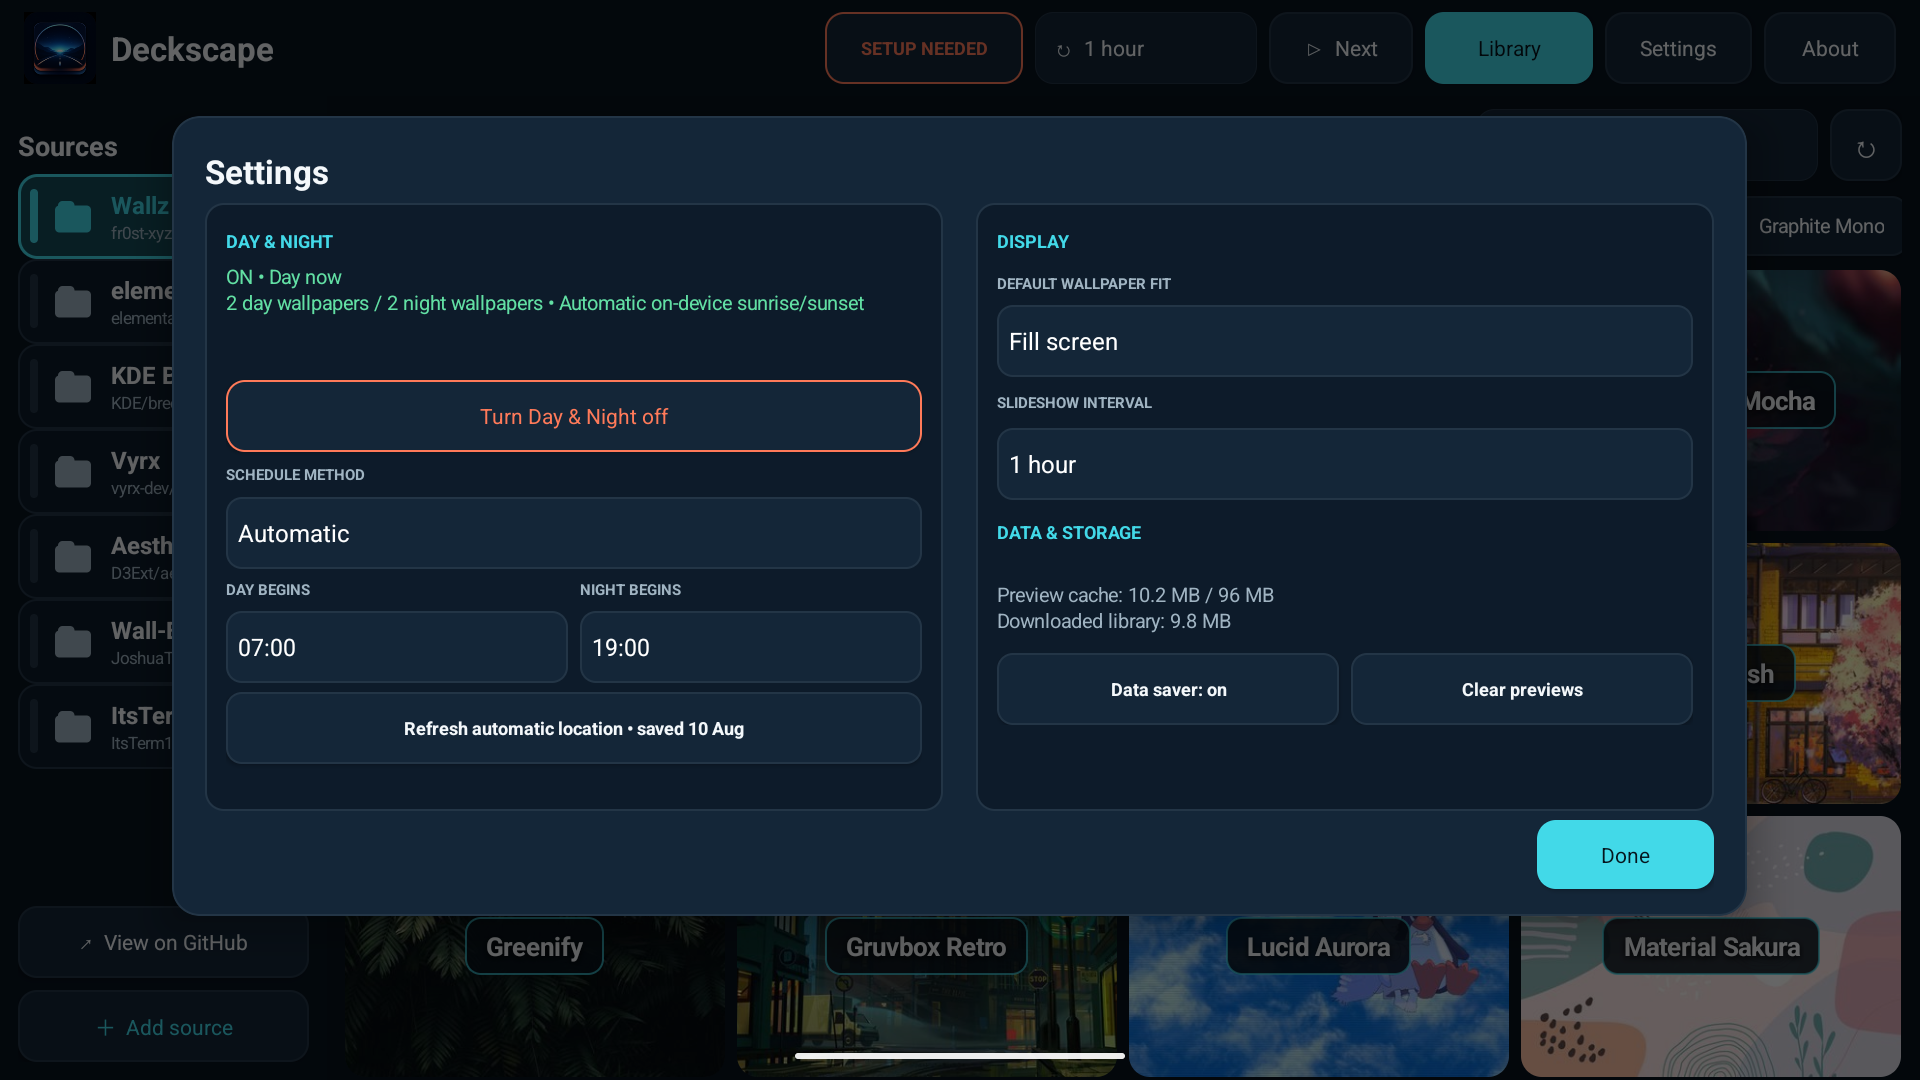
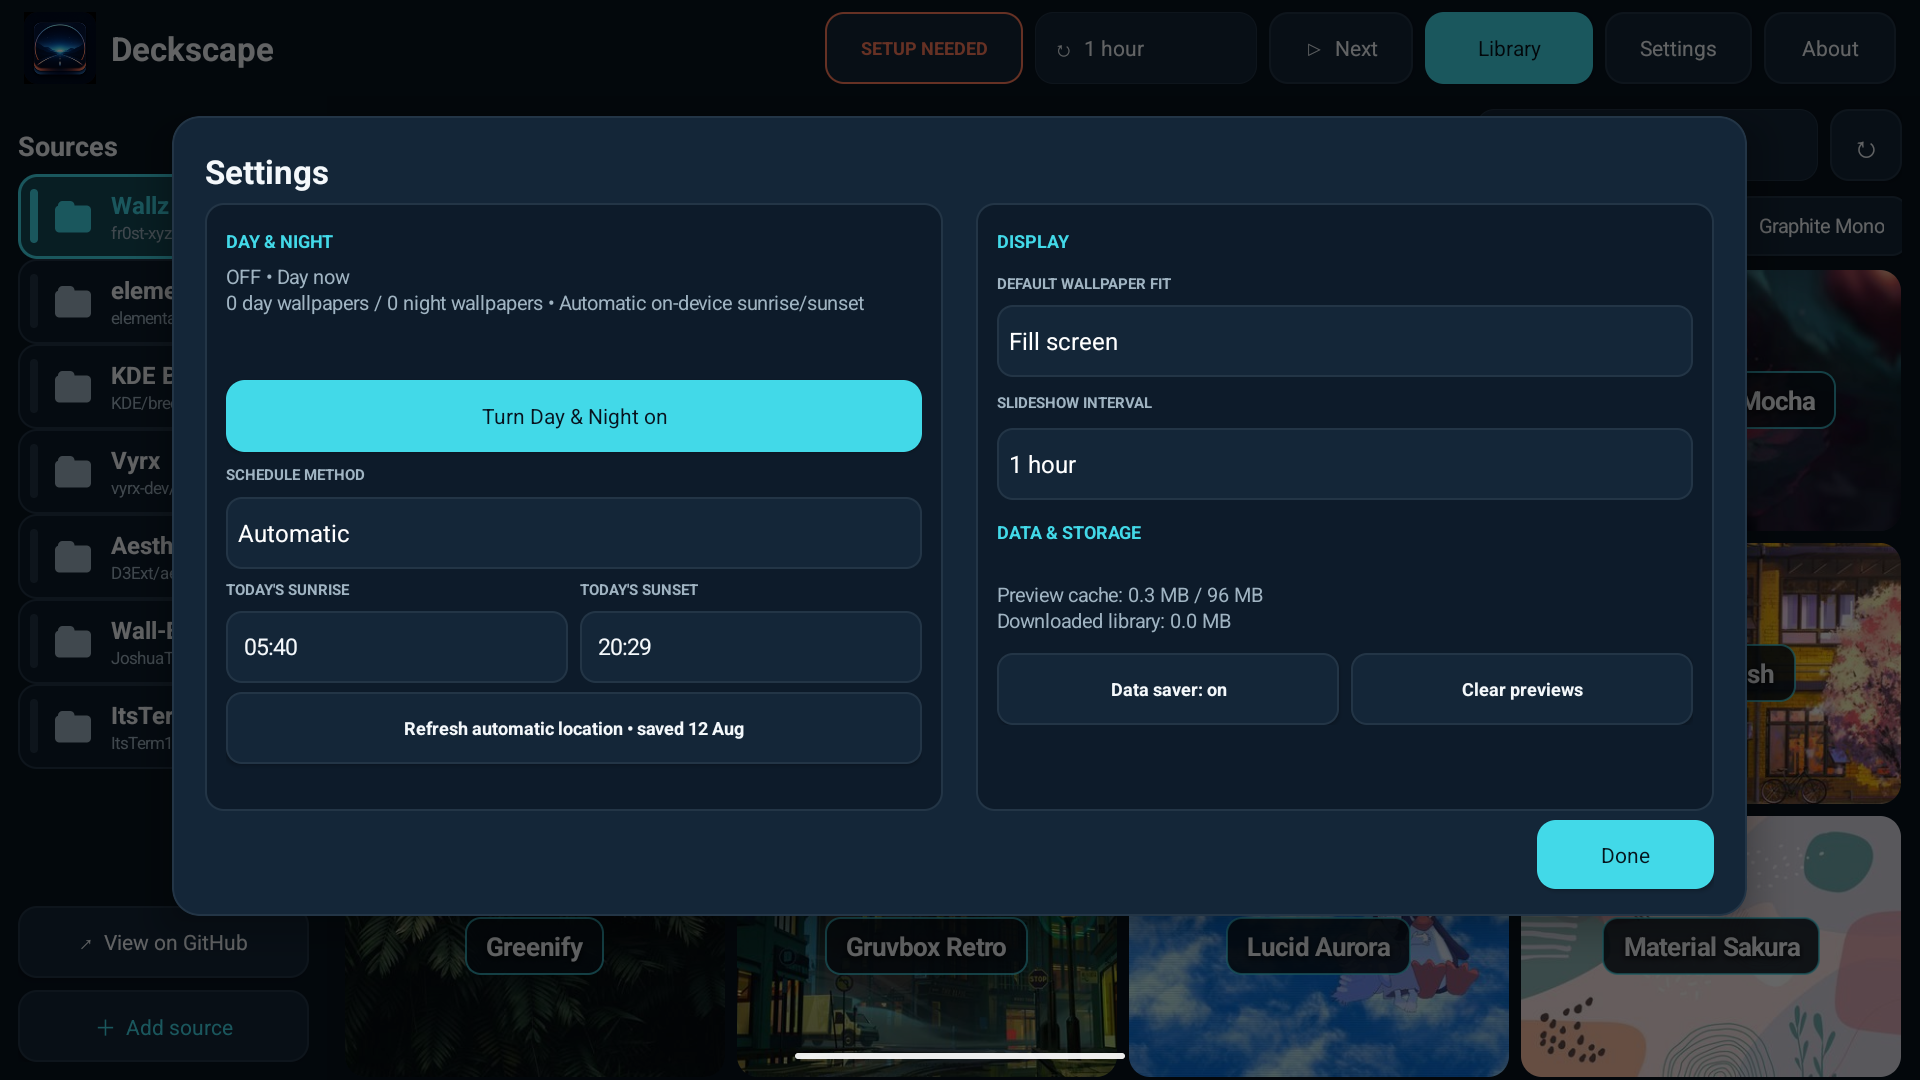
Clarify automatic schedule times

diff --git a/app/src/main/java/uk/darkbyte/deckscape/MainActivity.java b/app/src/main/java/uk/darkbyte/deckscape/MainActivity.java
@@ -107,6 +107,12 @@ public final class MainActivity extends Activity {
     private Button settingsDayNightToggle;
     private TextView settingsDayNightStatus;
     private Spinner settingsScheduleMode;
+    private TextView settingsDayTimeLabel;
+    private TextView settingsNightTimeLabel;
+    private Spinner settingsDayTimeSpinner;
+    private Spinner settingsNightTimeSpinner;
+    private TextView settingsDayCalculatedTime;
+    private TextView settingsNightCalculatedTime;
     private Button settingsLocationButton;
     private boolean pendingEnableDayNight;
     private AlertDialog infoDialog;
@@ -1231,8 +1237,8 @@ public final class MainActivity extends Activity {
 
         LinearLayout times = new LinearLayout(this);
         times.setOrientation(LinearLayout.HORIZONTAL);
-        LinearLayout dayTime = timeControl("DAY BEGINS", dayNightSettings.dayMinute());
-        LinearLayout nightTime = timeControl("NIGHT BEGINS", dayNightSettings.nightMinute());
+        LinearLayout dayTime = timeControl(true, dayNightSettings.dayMinute());
+        LinearLayout nightTime = timeControl(false, dayNightSettings.nightMinute());
         times.addView(dayTime, new LinearLayout.LayoutParams(0,
                 ViewGroup.LayoutParams.MATCH_PARENT, 1f));
         LinearLayout.LayoutParams nightParams = new LinearLayout.LayoutParams(0,
@@ -1355,6 +1361,12 @@ public final class MainActivity extends Activity {
             settingsDayNightToggle = null;
             settingsDayNightStatus = null;
             settingsScheduleMode = null;
+            settingsDayTimeLabel = null;
+            settingsNightTimeLabel = null;
+            settingsDayTimeSpinner = null;
+            settingsNightTimeSpinner = null;
+            settingsDayCalculatedTime = null;
+            settingsNightCalculatedTime = null;
             settingsLocationButton = null;
         });
         dialog.show();
@@ -1396,27 +1408,48 @@ public final class MainActivity extends Activity {
         return spinner;
     }
 
-    private LinearLayout timeControl(String label, int selectedMinute) {
+    private LinearLayout timeControl(boolean day, int selectedMinute) {
         LinearLayout control = new LinearLayout(this);
         control.setOrientation(LinearLayout.VERTICAL);
-        control.addView(settingsLabel(label), new LinearLayout.LayoutParams(
+        TextView label = settingsLabel(getString(day
+                ? R.string.manual_day_begins : R.string.manual_night_begins));
+        if (day) settingsDayTimeLabel = label;
+        else settingsNightTimeLabel = label;
+        control.addView(label, new LinearLayout.LayoutParams(
                 ViewGroup.LayoutParams.MATCH_PARENT, Ui.dp(this, 28)));
+
+        FrameLayout value = new FrameLayout(this);
         Spinner spinner = settingsSpinner(timeLabels());
+        if (day) settingsDayTimeSpinner = spinner;
+        else settingsNightTimeSpinner = spinner;
         spinner.setSelection(Math.floorMod(selectedMinute, 24 * 60) / 30);
         spinner.setOnItemSelectedListener(new AdapterView.OnItemSelectedListener() {
             @Override
             public void onItemSelected(AdapterView<?> parent, View view, int position, long id) {
-                int day = label.startsWith("DAY") ? position * 30 : dayNightSettings.dayMinute();
-                int night = label.startsWith("NIGHT") ? position * 30
-                        : dayNightSettings.nightMinute();
-                dayNightSettings.setManualTimes(day, night);
+                int dayMinute = day ? position * 30 : dayNightSettings.dayMinute();
+                int nightMinute = day ? dayNightSettings.nightMinute()
+                        : position * 30;
+                dayNightSettings.setManualTimes(dayMinute, nightMinute);
                 broadcastConfigurationChanged();
                 refreshSettingsStatus();
             }
 
             @Override public void onNothingSelected(AdapterView<?> parent) {}
         });
-        control.addView(spinner, new LinearLayout.LayoutParams(
+        value.addView(spinner, new FrameLayout.LayoutParams(
+                ViewGroup.LayoutParams.MATCH_PARENT, ViewGroup.LayoutParams.MATCH_PARENT));
+
+        TextView calculated = Ui.text(this, "", 15, Ui.TEXT);
+        calculated.setGravity(Gravity.CENTER_VERTICAL);
+        calculated.setPadding(Ui.dp(this, 12), 0, Ui.dp(this, 12), 0);
+        calculated.setBackground(Ui.rounded(Ui.SURFACE_HIGH, Ui.dp(this, 10),
+                Ui.DIVIDER, Ui.dp(this, 1)));
+        calculated.setVisibility(View.GONE);
+        if (day) settingsDayCalculatedTime = calculated;
+        else settingsNightCalculatedTime = calculated;
+        value.addView(calculated, new FrameLayout.LayoutParams(
+                ViewGroup.LayoutParams.MATCH_PARENT, ViewGroup.LayoutParams.MATCH_PARENT));
+        control.addView(value, new LinearLayout.LayoutParams(
                 ViewGroup.LayoutParams.MATCH_PARENT, Ui.dp(this, 48)));
         return control;
     }
@@ -1501,9 +1534,9 @@ public final class MainActivity extends Activity {
                 refreshSettingsStatus();
                 Toast.makeText(MainActivity.this,
                         cached
-                                ? "Automatic times are ready from a recent on-device location."
-                                : "Automatic sunrise and sunset times are ready.",
-                        Toast.LENGTH_SHORT).show();
+                                ? "Updated from a recent on-device location; no new GPS fix was needed."
+                                : "Location updated; today's sunrise and sunset are ready.",
+                        Toast.LENGTH_LONG).show();
             }
 
             @Override
@@ -1562,6 +1595,7 @@ public final class MainActivity extends Activity {
                 != dayNightSettings.mode().ordinal()) {
             settingsScheduleMode.setSelection(dayNightSettings.mode().ordinal());
         }
+        refreshScheduleTimeControls();
         if (settingsLocationButton != null) {
             if (locationClient.isRequesting()) {
                 settingsLocationButton.setText(R.string.cancel_location_search);
@@ -1574,6 +1608,46 @@ public final class MainActivity extends Activity {
             }
             settingsLocationButton.setEnabled(true);
             settingsLocationButton.setVisibility(hasAmbientLightSensor() ? View.GONE : View.VISIBLE);
+        }
+    }
+
+    private void refreshScheduleTimeControls() {
+        if (settingsDayTimeLabel == null || settingsNightTimeLabel == null
+                || settingsDayTimeSpinner == null || settingsNightTimeSpinner == null
+                || settingsDayCalculatedTime == null || settingsNightCalculatedTime == null) {
+            return;
+        }
+        boolean manual = dayNightSettings.mode() == ScheduleMode.MANUAL;
+        settingsDayTimeSpinner.setVisibility(manual ? View.VISIBLE : View.GONE);
+        settingsNightTimeSpinner.setVisibility(manual ? View.VISIBLE : View.GONE);
+        settingsDayCalculatedTime.setVisibility(manual ? View.GONE : View.VISIBLE);
+        settingsNightCalculatedTime.setVisibility(manual ? View.GONE : View.VISIBLE);
+        if (manual) {
+            settingsDayTimeLabel.setText(R.string.manual_day_begins);
+            settingsNightTimeLabel.setText(R.string.manual_night_begins);
+            return;
+        }
+        if (hasAmbientLightSensor()) {
+            settingsDayTimeLabel.setText(R.string.automatic_control);
+            settingsNightTimeLabel.setText(R.string.fixed_times);
+            settingsDayCalculatedTime.setText(R.string.ambient_light);
+            settingsNightCalculatedTime.setText(R.string.not_used);
+            return;
+        }
+        settingsDayTimeLabel.setText(R.string.todays_sunrise);
+        settingsNightTimeLabel.setText(R.string.todays_sunset);
+        DayPhaseResolver.SolarTimes times = dayNightSettings.solarTimes(
+                System.currentTimeMillis());
+        if (times == null) {
+            int unavailable = dayNightSettings.hasCoarseLocation()
+                    ? R.string.solar_time_unavailable : R.string.location_needed;
+            settingsDayCalculatedTime.setText(unavailable);
+            settingsNightCalculatedTime.setText(unavailable);
+        } else {
+            settingsDayCalculatedTime.setText(
+                    DayPhaseResolver.formatMinute(times.sunriseMinute));
+            settingsNightCalculatedTime.setText(
+                    DayPhaseResolver.formatMinute(times.sunsetMinute));
         }
     }
 

diff --git a/app/src/main/java/uk/darkbyte/deckscape/DayPhaseResolver.java b/app/src/main/java/uk/darkbyte/deckscape/DayPhaseResolver.java
@@ -26,14 +26,21 @@ final class DayPhaseResolver {
     }
 
     static DayPhase solar(Instant now, ZoneId zone, double latitude, double longitude) {
-        LocalDate localDate = ZonedDateTime.ofInstant(now, zone).toLocalDate();
-        SolarEvents events = solarEvents(localDate, latitude, longitude);
+        SolarEvents events = alignedSolarEvents(now, zone, latitude, longitude);
         if (events == null) return null;
-        Instant sunrise = alignToLocalDate(events.sunrise, localDate, zone);
-        Instant sunset = alignToLocalDate(events.sunset, localDate, zone);
-        if (!sunset.isAfter(sunrise)) sunset = sunset.plusSeconds(86_400);
-        return !now.isBefore(sunrise) && now.isBefore(sunset)
+        return !now.isBefore(events.sunrise) && now.isBefore(events.sunset)
                 ? DayPhase.DAY : DayPhase.NIGHT;
+    }
+
+    /** Returns today's calculated sunrise and sunset as local minutes after midnight. */
+    static SolarTimes solarTimes(Instant now, ZoneId zone,
+                                 double latitude, double longitude) {
+        SolarEvents events = alignedSolarEvents(now, zone, latitude, longitude);
+        if (events == null) return null;
+        ZonedDateTime sunrise = ZonedDateTime.ofInstant(events.sunrise, zone);
+        ZonedDateTime sunset = ZonedDateTime.ofInstant(events.sunset, zone);
+        return new SolarTimes(sunrise.getHour() * 60 + sunrise.getMinute(),
+                sunset.getHour() * 60 + sunset.getMinute());
     }
 
     /** Calculates official civil sunrise and sunset without sending location off-device. */
@@ -105,6 +112,18 @@ final class DayPhaseResolver {
         return Math.floorMod(value, 24 * 60);
     }
 
+    private static SolarEvents alignedSolarEvents(Instant now, ZoneId zone,
+                                                   double latitude, double longitude) {
+        if (now == null || zone == null) return null;
+        LocalDate localDate = ZonedDateTime.ofInstant(now, zone).toLocalDate();
+        SolarEvents events = solarEvents(localDate, latitude, longitude);
+        if (events == null) return null;
+        Instant sunrise = alignToLocalDate(events.sunrise, localDate, zone);
+        Instant sunset = alignToLocalDate(events.sunset, localDate, zone);
+        if (!sunset.isAfter(sunrise)) sunset = sunset.plusSeconds(86_400);
+        return new SolarEvents(sunrise, sunset);
+    }
+
     private static Instant alignToLocalDate(Instant value, LocalDate date, ZoneId zone) {
         Instant result = value;
         LocalDate resultDate = ZonedDateTime.ofInstant(result, zone).toLocalDate();
@@ -127,6 +146,17 @@ final class DayPhaseResolver {
         SolarEvents(Instant sunrise, Instant sunset) {
             this.sunrise = sunrise;
             this.sunset = sunset;
+        }
+    }
+
+    /** Local clock times used by the Settings summary for today's solar schedule. */
+    static final class SolarTimes {
+        final int sunriseMinute;
+        final int sunsetMinute;
+
+        SolarTimes(int sunriseMinute, int sunsetMinute) {
+            this.sunriseMinute = normalizeMinute(sunriseMinute);
+            this.sunsetMinute = normalizeMinute(sunsetMinute);
         }
     }
 }

diff --git a/app/src/test/java/uk/darkbyte/deckscape/DayPhaseResolverTest.java b/app/src/test/java/uk/darkbyte/deckscape/DayPhaseResolverTest.java
@@ -9,6 +9,7 @@ import java.time.ZoneId;
 import static org.junit.Assert.assertEquals;
 import static org.junit.Assert.assertNotNull;
 import static org.junit.Assert.assertNull;
+import static org.junit.Assert.assertTrue;
 
 /** Covers manual boundaries, solar events, and polar fallback behaviour. */
 public class DayPhaseResolverTest {
@@ -40,6 +41,37 @@ public class DayPhaseResolverTest {
                 Instant.parse("2026-06-21T12:00:00Z"), LONDON, 51.5, -0.1));
         assertEquals(DayPhase.NIGHT, DayPhaseResolver.solar(
                 Instant.parse("2026-06-21T00:00:00Z"), LONDON, 51.5, -0.1));
+    }
+
+    @Test
+    public void solarTimesUseTheSameLocalBoundariesAsPhaseResolution() {
+        Instant midday = Instant.parse("2026-08-12T12:00:00Z");
+        DayPhaseResolver.SolarTimes times = DayPhaseResolver.solarTimes(
+                midday, LONDON, 51.5, -0.1);
+
+        assertNotNull(times);
+        assertTrue(times.sunriseMinute >= 5 * 60 && times.sunriseMinute < 6 * 60);
+        assertTrue(times.sunsetMinute >= 20 * 60 && times.sunsetMinute < 21 * 60);
+        Instant sunrise = LocalDate.of(2026, 8, 12).atStartOfDay(LONDON)
+                .plusMinutes(times.sunriseMinute).toInstant();
+        Instant sunset = LocalDate.of(2026, 8, 12).atStartOfDay(LONDON)
+                .plusMinutes(times.sunsetMinute).toInstant();
+        assertEquals(DayPhase.NIGHT, DayPhaseResolver.solar(
+                sunrise.minusSeconds(60), LONDON, 51.5, -0.1));
+        assertEquals(DayPhase.DAY, DayPhaseResolver.solar(
+                sunrise.plusSeconds(60), LONDON, 51.5, -0.1));
+        assertEquals(DayPhase.DAY, DayPhaseResolver.solar(
+                sunset.minusSeconds(60), LONDON, 51.5, -0.1));
+        assertEquals(DayPhase.NIGHT, DayPhaseResolver.solar(
+                sunset.plusSeconds(60), LONDON, 51.5, -0.1));
+        assertEquals(DayPhase.DAY, DayPhaseResolver.solar(
+                midday, LONDON, 51.5, -0.1));
+    }
+
+    @Test
+    public void solarTimesReturnNullWhenNoEventExists() {
+        assertNull(DayPhaseResolver.solarTimes(Instant.parse("2026-06-21T12:00:00Z"),
+                ZoneId.of("UTC"), 89, 0));
     }
 
     @Test

diff --git a/app/src/main/java/uk/darkbyte/deckscape/DayNightSettings.java b/app/src/main/java/uk/darkbyte/deckscape/DayNightSettings.java
@@ -100,6 +100,15 @@ final class DayNightSettings {
         return preferences.getLong(KEY_LOCATION_TIME, 0);
     }
 
+    /** Returns today's local solar boundaries from the same inputs used by the engine. */
+    DayPhaseResolver.SolarTimes solarTimes(long nowMillis) {
+        if (!hasCoarseLocation()) return null;
+        double latitude = preferences.getInt(KEY_LATITUDE_TENTHS, 0) / 10.0;
+        double longitude = preferences.getInt(KEY_LONGITUDE_TENTHS, 0) / 10.0;
+        return DayPhaseResolver.solarTimes(Instant.ofEpochMilli(nowMillis),
+                ZoneId.systemDefault(), latitude, longitude);
+    }
+
     DayPhase currentPhase(long nowMillis, DayPhase sensorPhase) {
         Instant now = Instant.ofEpochMilli(nowMillis);
         ZoneId zone = ZoneId.systemDefault();

diff --git a/README.md b/README.md
@@ -169,8 +169,10 @@ exists. Otherwise it requests one foreground location fix and calculates local
 sunrise and sunset on the device. Older or non-Google head units can require
 Android's precise GPS permission to obtain that fix, but Deckscape immediately
 rounds it to 0.1 degrees, discards the precise result, and never sends the saved
-area to a server. The one-minute search is cancellable. Choose **Manual times**
-to avoid location entirely or set a fixed schedule.
+area to a server. Settings shows today's calculated sunrise and sunset as
+read-only times in Automatic mode; editable fixed times appear only after
+choosing **Manual times**. The one-minute search is cancellable. Choose Manual
+mode to avoid location entirely or set a fixed schedule.
 
 Manual **Show now** choices are respected until the next normal slideshow
 interval. If removing or deleting a wallpaper empties either period, Day &

diff --git a/CHANGELOG.md b/CHANGELOG.md
@@ -19,6 +19,10 @@ versioning, and public Android `versionCode` values increase once per release.
   cancel action while searching.
 - Location denial, cancellation, and timeout preserve the chosen schedule mode;
   the visible Automatic/Manual selector no longer disagrees with saved state.
+- Automatic scheduling now shows today's calculated sunrise and sunset as
+  read-only times. The editable fallback fields appear only in Manual mode.
+- Reusing a recent on-device location now explicitly says that a new GPS fix
+  was unnecessary.
 - About now presents each GitHub contributor as one friendly profile, including
   a cached profile image and a direct profile link.
 - The creator's anonymous and GitHub-linked commit identities are merged into

diff --git a/docs/ARCHITECTURE.md b/docs/ARCHITECTURE.md
@@ -119,7 +119,9 @@ requested explicitly from Settings. Android 11 and older require fine foreground
 access because non-Google head units may expose GPS without a functional network
 provider; Android 12 and newer accepts the user's approximate choice. The result
 is immediately rounded to 0.1 degrees and used by `DayPhaseResolver` for
-on-device solar calculations.
+on-device solar calculations. Settings reads today's boundaries from that same
+resolver and presents them as read-only sunrise/sunset values; the manual time
+spinners are shown only when Manual mode is selected.
 
 `CoarseLocationClient` checks fused, network, GPS, and passive providers, accepts
 only a fix from the last 24 hours immediately, and permits a fix up to seven days

diff --git a/docs/images/README.md b/docs/images/README.md
@@ -10,8 +10,8 @@ retained for interface provenance. None contain vehicle, account, map, or
 location information.
 
 The Settings screenshot exercises the no-light-sensor path with a synthetic
-emulator location fix. It shows only the locally saved date; no coordinate or
-real-world location is present in the image.
+emulator location fix. It shows the calculated sunrise/sunset and locally saved
+date; no coordinate or real-world location is present in the image.
 
 The interface is Deckscape project material. Wallpaper previews visible inside
 the interface came from the public `fr0st-xyz/wallz` catalog and remain subject
